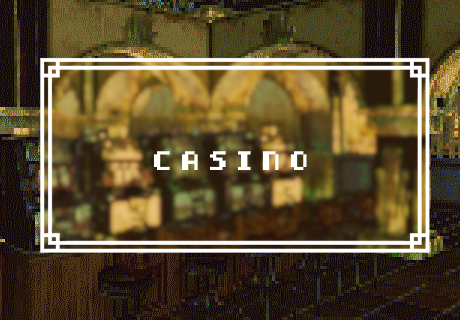
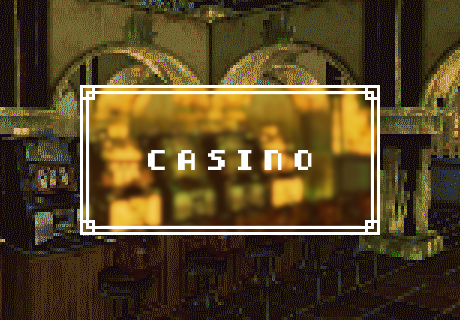
renamed images because fuck you discord cache

diff --git a/src/menu/Menu.ts b/src/menu/Menu.ts
@@ -54,7 +54,7 @@ export const mainMenuEmbed = new EmbedBuilder()
     .setTitle(Lang("mainMenu_text_title"))
     .setDescription(Lang("mainMenu_text_description"))
     .setColor(0xff0088)
-    .setImage("https://baabaablackgoat.com/res/salem/menuLobbyGlass.png");
+    .setImage("https://baabaablackgoat.com/res/salem/menuLobbyGlass2.png");
 export const mainMenuButtonRow = new ActionRowBuilder().addComponents(
     new ButtonBuilder()
         .setLabel(Lang("mainMenu_button_games"))
@@ -75,7 +75,7 @@ const gamesMenuEmbed = new EmbedBuilder()
     .setTitle(Lang("gamesMenu_text_title"))
     .setDescription(Lang("gamesMenu_text_description"))
     .setColor(0xff0088)
-    .setImage("https://baabaablackgoat.com/res/salem/menuCasinoGlass.png");
+    .setImage("https://baabaablackgoat.com/res/salem/menuCasinoGlass2.png");
 const gamesMenuButtonRow = new ActionRowBuilder().addComponents(
     new ButtonBuilder()
         .setLabel(Lang("gamesMenu_button_blackjack"))
@@ -103,7 +103,9 @@ function profileMenuEmbed(balance: number, user: User) {
             iconURL: user.avatarURL(),
         })
         .setColor(0xff0088)
-        .setImage("https://baabaablackgoat.com/res/salem/menuProfileGlass.png");
+        .setImage(
+            "https://baabaablackgoat.com/res/salem/menuProfileGlass2.png"
+        );
 }
 
 const profileMenuButtonRow = new ActionRowBuilder().addComponents(
